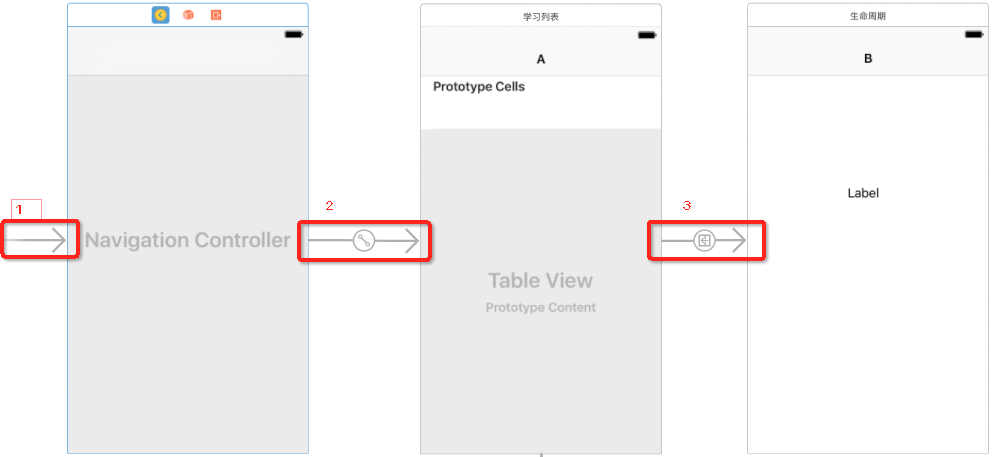
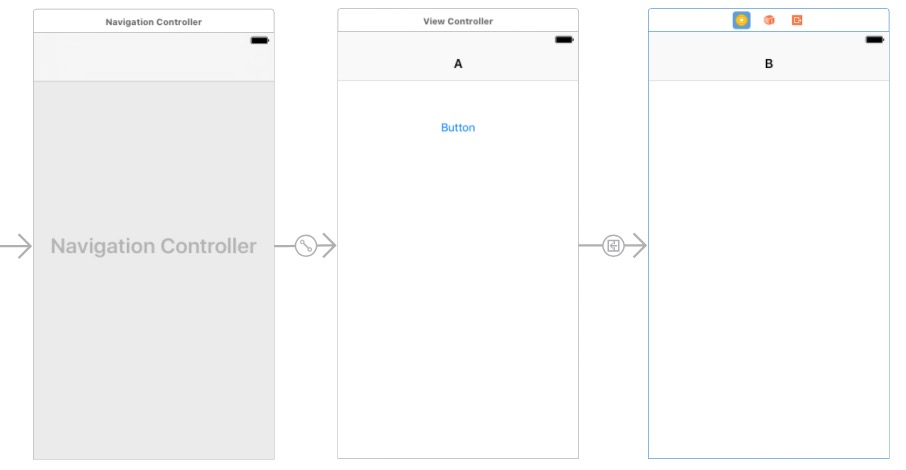
feat

diff --git a/_posts/study/2017/2017-03-27-IOS学习入门分享.md b/_posts/study/2017/2017-03-27-IOS学习入门分享.md
@@ -510,11 +510,15 @@ storyboard 视图编辑器如下：
 
 ![](https://xilankong.github.io/resource/storyboard_ide.jpeg)
 
-默认的storyboard如下：
+#### 认识场景和起始标签
+
+1.起始标签指定的控制器就是app启动后的第一个页面。
+
+2.场景可以通过上图中的右侧工具区的视图对象列表中拖拽到视图编辑区域生成。
 
 ![](https://xilankong.github.io/resource/storyboard.png)
 
-设置转场：
+#### 两个场景之间设置转场
 
 按住CTRL键，由上图的场景视图的第一个元素，View Controller 对应的小圆点处点击拖拽出一条线连接到目标控制器范围内松开鼠标。
 
@@ -528,39 +532,35 @@ storyboard 视图编辑器如下：
 
 ![](https://xilankong.github.io/resource/segueid.png)
 
+#### 跳转Demo
+
 熟悉了基本创建后，我们实现一个简单的demo，demo包括A、B两个页面、A到B的跳转。
 
 一般使用系统的导航条会更加的方便
 
 第一步、添加一个UINavigationController（导航条控制器）的场景，然后为它添加上起始标签。
 
-第二步、添加一个普通控制器场景A，把它作为导航条控制器的  rootViewController
+第二步、添加一个普通控制器场景A，并用拉转场线一样的方式，把它作为导航条控制器的  rootViewController 设置为 RelationShip segue。
 
-第三步、再添加一个普通控制器场景B，并从A拉出一条转场线链接到B场景，设置转场的ID：segueId
+第三步、在A中添加一个按钮
+
+第四步、再添加一个普通控制器场景B，并从A中按钮拉出一条转场线链接到B场景，设置转场的ID：segueId
 
 如下图：
 
+![](https://xilankong.github.io/resource/storyboard_segue.png)
 
 
 
+到此，我们启动app，就可以通过点击按钮从A跳转到B了。
 
-到此，我们就可以通过代码以转场的方式从A场景过渡到B场景。
+我们就可以通过代码以转场的方式从A场景过渡到B场景。
+
+或者直接通过代码绑定事件的方式调起转场
 
 ```
 self.performSegue(withIdentifier: "segueId", sender: nil)
 ```
-
-或者直接通过绑定按钮事件的方式调起转场，后面UI控件里面再讲。
-
-转场种类
-
-```
-
-```
-
-
-
-
 
 如果 A 和 B 之间需要有参数传递？
 
